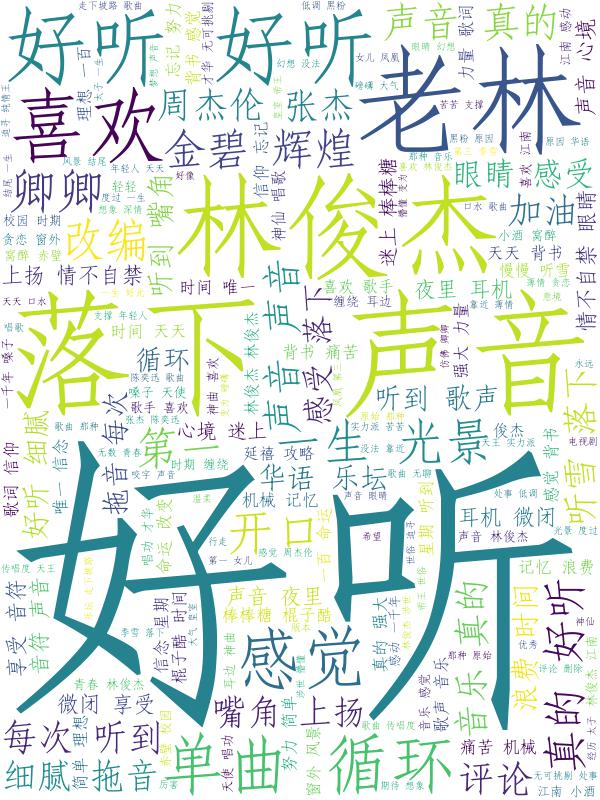
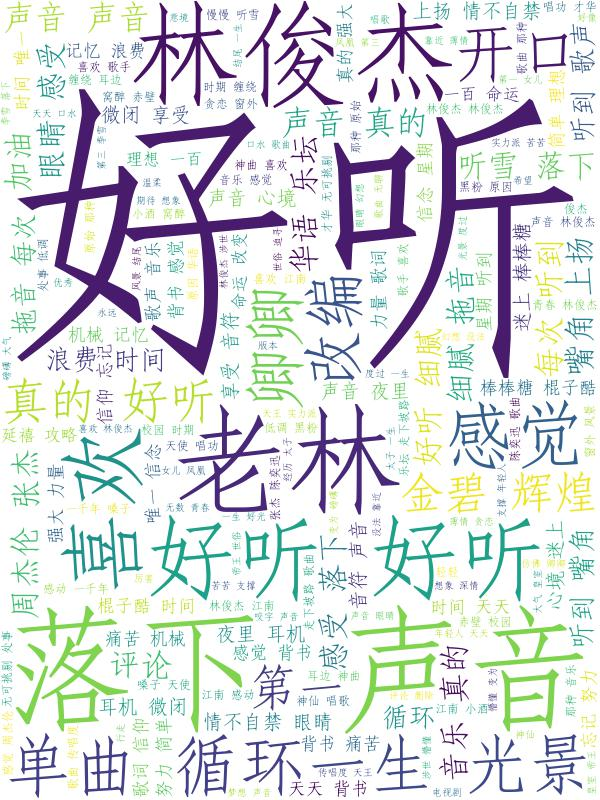
add fool fenci

diff --git a/worldcloud.py b/worldcloud.py
@@ -14,7 +14,7 @@ import codecs
 import pymongo
 from scipy.misc import imread
 from wordcloud import WordCloud
-
+from matplotlib import pyplot as plt
 
 config = {
     'HOST': '127.0.0.1',
@@ -44,21 +44,13 @@ emoji_pattern = re.compile(
 def remove_emoji(text):
     return emoji_pattern.sub(r'', text)
 
-def save_jieba_result(comment_text, fenci):
+def draw_wordcloud(comment_text, fenci):
     comment_text = remove_emoji(comment_text)
     if fenci == "jieba":
         cut_text = " ".join(jieba.cut(comment_text))
     else:
         dd = fool.cut(comment_text)
         cut_text = " ".join(fool.cut(comment_text)[0])
-    with codecs.open('pjl_{0}.txt'.format(fenci), 'w', encoding='utf-8') as f:
-        f.write(cut_text)
-
-
-def draw_wordcloud(fenci):
-    file_name = 'pjl_{0}.txt'.format(fenci)
-    with codecs.open(file_name, encoding='utf-8') as f:
-        comment_text = f.read()
     color_mask = imread('/Users/work/Downloads/e0f057b7a1a61de962d89347b6d7201f-d4o1tzm.jpg')
     font = r'/Users/work/Downloads/simfang.ttf'
     stopwords = open("stopworld.txt").read().split("\n")
@@ -72,9 +64,8 @@ def draw_wordcloud(fenci):
         stopwords=stopwords,
     )
 
-    word_cloud = cloud.generate(comment_text)
+    word_cloud = cloud.generate(cut_text)
     word_cloud.to_file('{0}.jpg'.format(fenci))
-
 
 def run():
     fenci_list = ["jieba", "fool"]
@@ -84,8 +75,7 @@ def run():
     comment_text = "".join([i.get("rootcommentcontent").strip() for i in datas if i.get("rootcommentcontent")])
     for fenci in fenci_list:
         print(fenci)
-        save_jieba_result(comment_text, fenci)
-        draw_wordcloud(fenci)
+        draw_wordcloud(comment_text, fenci)
 
 
 if __name__ == "__main__":
